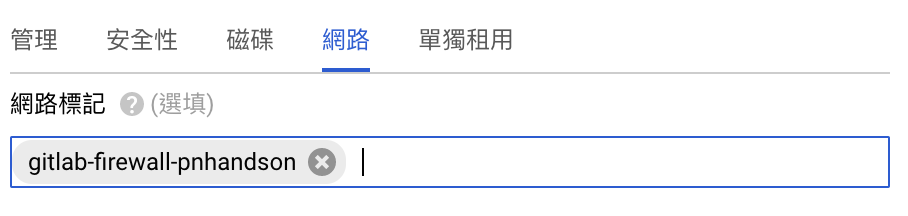
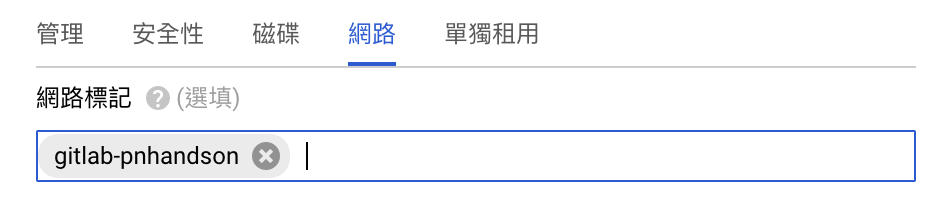
update

diff --git a/README.md b/README.md
@@ -144,14 +144,16 @@ gcloud compute addresses delete address-name --region=asia-east1-b
 
 2. 選取網路 -> 網路標記
 
-- 設定剛剛的rule 
-`gitlab-firewall-pnhandson`
+- 設定剛剛的rule網路標記
+`gitlab-pnhandson`
 
 3. 建立
 
 ![gce01.png](images/gce01.png)
 ![gce02.png](images/gce02.png)
 ![gce03.png](images/gce03.png)
+
+- 等待約略五分鐘後所有服務皆啟用完成
 
 4. 建立後會自動產生兩組URL
 
